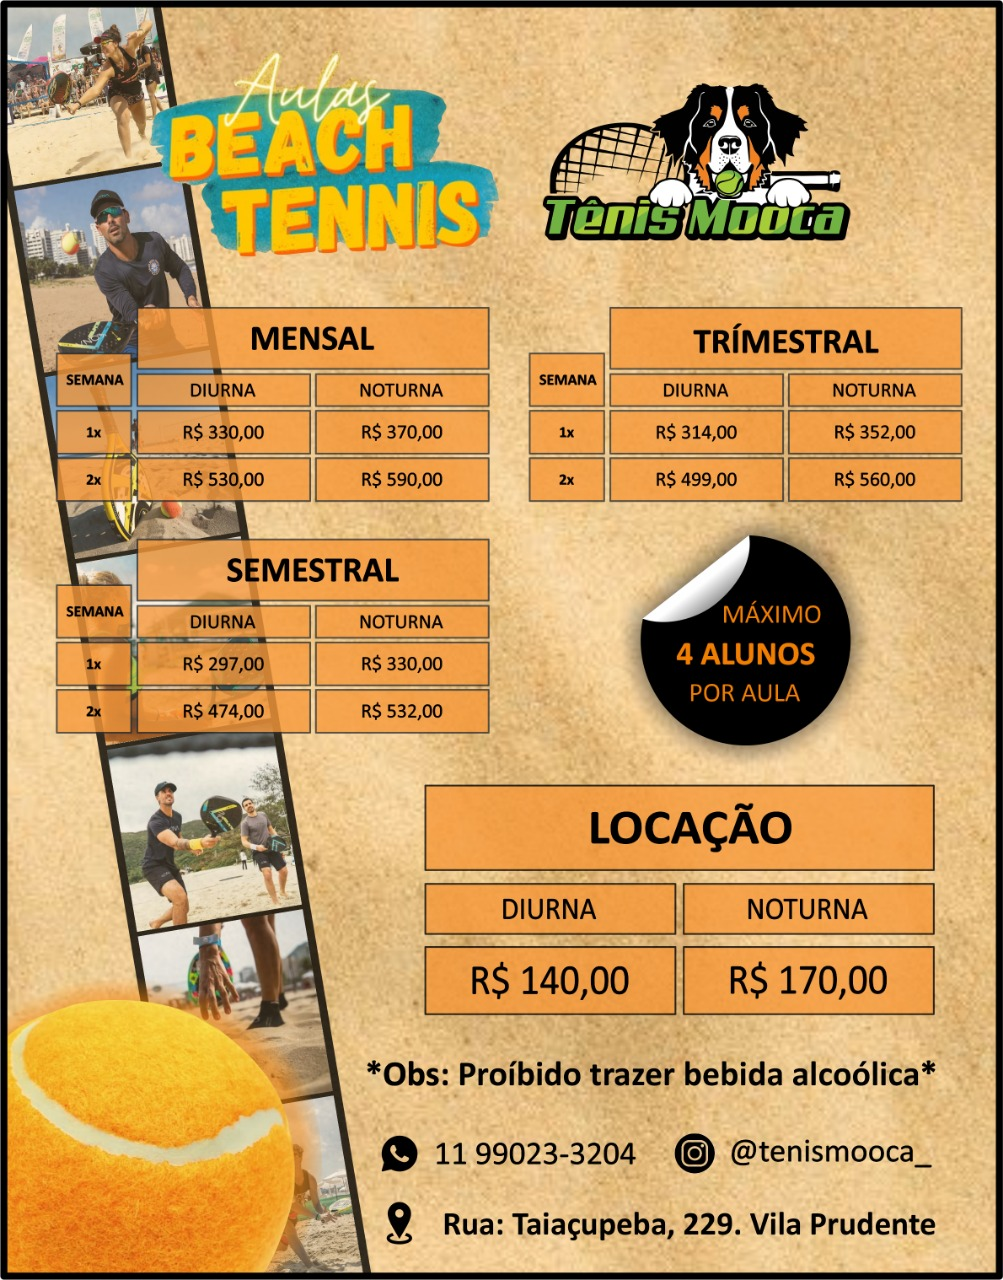
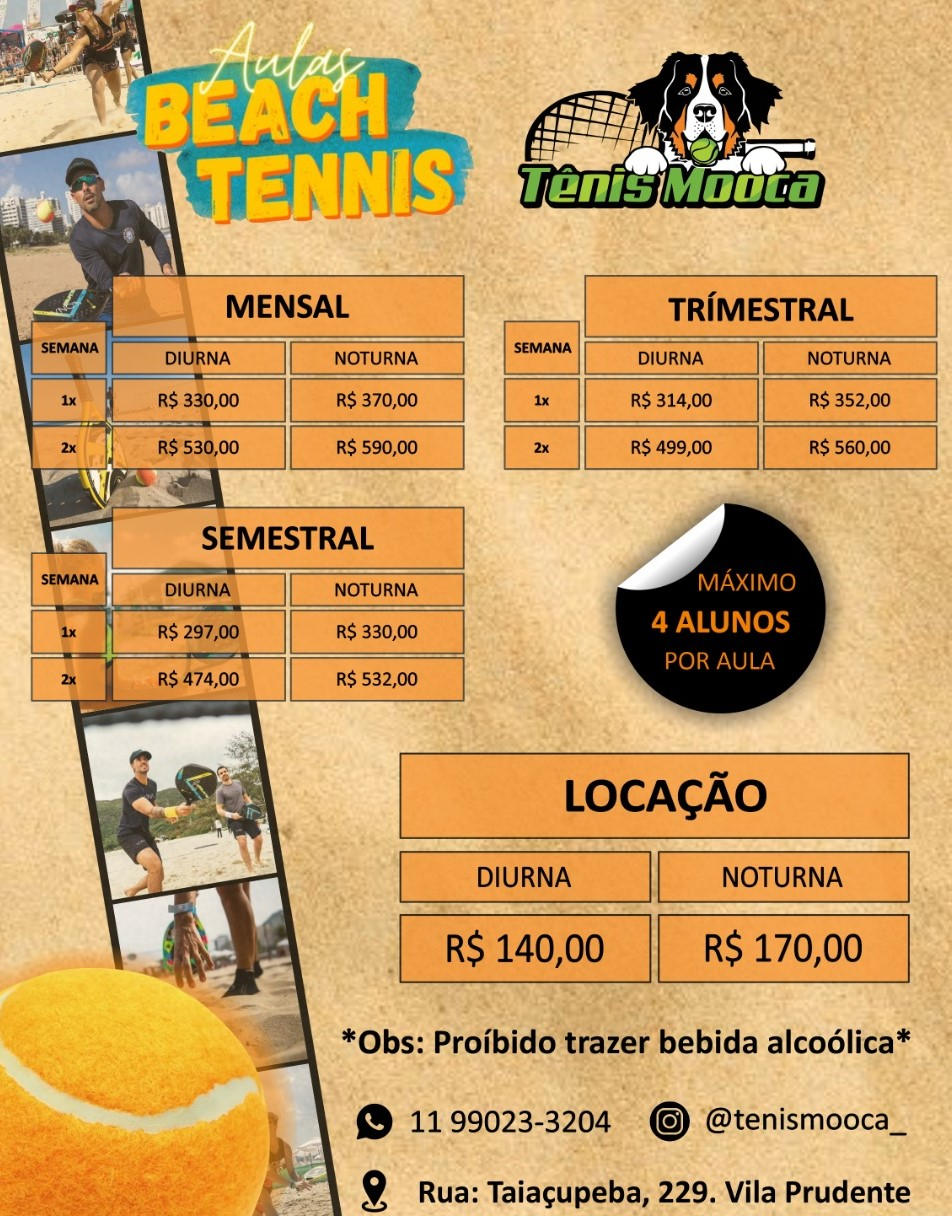
final

diff --git a/index.html b/index.html
@@ -35,22 +35,22 @@
             <ul class="menu-desktop mr-3">
 
                 <li class="menu-item" id="menu-item-1">
-                    <a href="" style="font-weight: 500;">HOME</a>
+                    <a href="" style="font-weight: 600;">HOME</a>
                     <ul class="" >
                         
                         
                     </ul>
                 </li>
                 <li class="menu-item" id="menu-item-2">
-                    <a href="" class="nav-link-desktop" style="font-weight: 500; ">TÊNIS MOOCA</a>
+                    <a href="" class="nav-link-desktop" style="font-weight: 600; ">TÊNIS MOOCA</a>
                     <ul class="dropdown-menu" id="dropdown-item-2">
-                        <li class="dropdown-item"><a href="https://ul.waze.com/ul?place=ChIJGZEDmQ5czpQRVH6E5QVK0fI&ll=-23.58378710%2C-46.58715410&navigate=yes&utm_campaign=default&utm_source=waze_website&utm_medium=lm_share_location" onclick="window.open(this.href,'_self')" class="nav-link-dropdown">ENDEREÇO</a></li>
+                        <li class="dropdown-item"><a href="#endereco" onclick="window.open(this.href,'_self')" class="nav-link-dropdown">ENDEREÇO</a></li>
                         <li class="dropdown-item"><a href="#sobre" class="nav-link-dropdown" onclick="window.open(this.href,'_self')">SOBRE</a></li>
                     </ul>
 
                 </li>
                 <li class="menu-item" id="menu-item-3">
-                    <a href="" class="nav-link-desktop" style="font-weight: 500;" >PREÇOS</a>
+                    <a href="" class="nav-link-desktop" style="font-weight: 600;" >PREÇOS</a>
                     <ul class="dropdown-menu" id="dropdown-item-3">
                         <li class="dropdown-item"><a href="#precos"  onclick="window.open(this.href,'_self')" class="nav-link-dropdown" >AULAS</a></li>
                         <li class="dropdown-item"><a href="https://api.whatsapp.com/send?phone=5511990233204&text=Ol%C3%A1%2C%20queria%20saber%20mais%20sobre%20a%20loca%C3%A7%C3%A3o%20%3F" onclick="window.open(this.href,'_self')" class="nav-link-dropdown">LOCAÇÃO</a></li>
@@ -111,7 +111,7 @@
        
     </div>
     <div class="flex-item-3 ml-5">
-        <iframe class="video" data-aos="zoom-out-left" data-aos-delay="600" width="560" height="315" src="https://www.youtube.com/embed/ws_MBDUHLxQ" title="YouTube video player" frameborder="0" allow="accelerometer; autoplay; clipboard-write; encrypted-media; gyroscope; picture-in-picture" allowfullscreen></iframe>
+        <iframe class="video" data-aos="zoom-out-left" data-aos-delay="600" width="560" height="315" src="https://www.youtube.com/embed/KVPMelynej4" title="YouTube video player" frameborder="0" allow="accelerometer; autoplay; clipboard-write; encrypted-media; gyroscope; picture-in-picture" allowfullscreen></iframe>
     </div>
    </section>
    <div class="quadras" data-aos="fade-up" data-aos-delay="400">
@@ -141,17 +141,38 @@
    </div>
     
     <div class="container">
-        <img data-aos="flip-left" class="imgprecos " src="img/flyerprecos.jpeg" alt="">
-        <img data-aos="flip-right" class="imgprecos " src="img/precosbeach.jpeg" alt="">
+        <img data-aos="flip-left" class="imgprecos ml-2 mt-2 " src="img/flyerprecos.jpeg" alt="">
+        <img data-aos="flip-right" class="imgprecos ml-2 mt-2 " src="img/precosbeach.jpeg" alt="">
         
     </div>
     <div class="flex-center">
-        <button class="btn" data-aos="zoom-in-down"><a href="https://api.whatsapp.com/send?phone=5511990233204&text=Ol%C3%A1%2C%20queria%20saber%20mais%20sobre%20a%20loca%C3%A7%C3%A3o%20%3F" style="color:white ;" >Agende já seu horario!!!</a></button>
+        <button class="btn" data-aos="zoom-in-down"><a href="https://api.whatsapp.com/send?phone=5511990233204&text=Ol%C3%A1%2C%20queria%20saber%20mais%20sobre%20a%20loca%C3%A7%C3%A3o%20%3F" style="color:white ;" >Agende já seu horário!!!</a></button>
     </div>
+
+    <!--======== ENDERECO =========-->
+    <h2 class="flex-center mt-5" id="endereco">Endereço</h2>
+    <div class="container">
+        
+        <div class="flex-wrap"> 
+           <h4 class="mr-4 mb-2"><i class="fa-sharp fa-solid fa-location-dot mr-1"></i>Rua Taiaçupeba, 229</h4>
+           <h4 class="mr-4 mb-2"><i class="fa-solid fa-phone mr-1"></i>(11) 99023-3204 </h4>
+           <h4 class="mr-4 mb-2"><i class="fa-solid fa-envelope mr-1"></i>contato@tennismooca.com.br</h4>
+           
+        </div>
+        <div class="flex-wrap">
+            
+            <iframe class="mb-2" src="https://www.google.com/maps/embed?pb=!1m18!1m12!1m3!1d3656.572651728716!2d-46.589342785021756!3d-23.58378708467181!2m3!1f0!2f0!3f0!3m2!1i1024!2i768!4f13.1!3m3!1m2!1s0x94ce5c0e99039119%3A0xf2d14a05e5847e54!2sRua%20Taia%C3%A7upeba%2C%20229%20-%20Vila%20Prudente%2C%20S%C3%A3o%20Paulo%20-%20SP%2C%2003150-030!5e0!3m2!1spt-BR!2sbr!4v1663767929327!5m2!1spt-BR!2sbr" width="400" height="250" style="border:0;" allowfullscreen="" loading="lazy" referrerpolicy="no-referrer-when-downgrade"></iframe>
+        </div>
         
 
 
-   <div class="container insta mt-3 flex-center flex-column" data-aos="zoom-out-right" data-aos-delay="800">
+    </div>
+
+
+        
+
+
+   <div class="container insta mt-1 flex-column" data-aos="zoom-out-right" data-aos-delay="300">
     <a href=""><img class="" src="./svg/logo.svg" alt=""></a>
     <h3 class="mt-3 ml-3">tenismooca_</h3>
     <p class="mt-3">informacoes (11) 99023-3204 🎾 Aulas de Tênis e beach Tênis 🎾 Kids 🎾 Treinamento 🎾 Locações </p>
@@ -159,30 +180,50 @@
          <button class="btn ml-3 mb-3"><a style="color: white;" href="https://www.instagram.com/tenismooca_/"><i class="fa-brands fa-instagram mr-1"></i> Siga no instagram</a></button>
     </div>
    
+
     
     
    </div>
 
-   <footer class="flex-center">
-    <section class="container flex-center ">
+   <footer class="">
+    <section class="container flex-column ">
         <div class="flex-center"><a href="https://ul.waze.com/ul?place=ChIJGZEDmQ5czpQRVH6E5QVK0fI&ll=-23.58378710%2C-46.58715410&navigate=yes&utm_campaign=default&utm_source=waze_website&utm_medium=lm_share_location">\
-            <p><i class="fa-solid fa-location-dot "></i> Vl.Prudente - São Paulo Rua Taiçupeba 229 </p></a>
+            <p><i class="fa-solid fa-location-dot ml-2 "></i> Vl.Prudente - São Paulo Rua Taiçupeba 229 </p></a>
             
             
         </div>
 
         <div class="flex-center">
-            <a href=""><img class="footerimg flex-center " src="./svg/logo.svg" alt=""></a>
+            <a href=""><img class="footerimg" src="./svg/logo.svg" alt=""></a>
         </div>
 
-        <div class="flex-center">
+        <div class="">
             <p>
-                <i class="fa-solid fa-phone "></i> Telefone (11) 99023-3204 </h4>
+                <i class="fa-solid fa-phone ml-2"></i> Telefone (11) 99023-3204 </h4>
             <a href=""><img src="" alt=""></a>
+    
         </div>
+
+        <div class="container">
+            <img class="pat ml-3 mr-2 mt-2" src="img/tidy.png" alt="">
+            <img class="pat ml-3  mr-2  mt-2" src="img/logo_laranja.png" alt="">
+            <img class="pat ml-3  mr-2 mt-2" src="img/globo.png" alt="">
+
+            
+            
+        </div>
+        <div> <p class="ml-2">© Copyright 2022 Tenismooca</p></div>
+
+        
+           
+        
         
     </section>
+    
+    
    </footer>
+
+   
 
 
     <!--======== JS ===========-->

diff --git a/css/style.css b/css/style.css
@@ -114,7 +114,7 @@
   display: flex;
   align-items: center;
   justify-content: center;
-  filter: brightness(50%);
+  filter: brightness(70%);
 }
 
 .textimg {
@@ -295,12 +295,20 @@
 .imgprecos {
   width: 600px;
   height: 800px;
+  border-radius: 7px;
 }
 @media screen and (max-width: 960px) {
   .imgprecos {
     width: 400px;
     height: 600px;
   }
+}
+
+.pat {
+  width: 100px;
+  align-items: center;
+  justify-content: center;
+  position: relative;
 }
 
 h1 {
@@ -1060,7 +1068,7 @@ footer {
 
 .footerimg {
   width: 60%;
-  margin-left: 40px;
+  margin-left: 90px;
   height: 60%;
   display: flex;
   align-items: center;

diff --git a/css/partials/_layout.scss b/css/partials/_layout.scss
@@ -147,7 +147,7 @@ $container-s: 540px;
   align-items: center;
   justify-content: center;
  
-  filter: brightness(50%);
+  filter: brightness(70%);
 
 
 }
@@ -309,11 +309,18 @@ $container-s: 540px;
 .imgprecos {
   width: 600px;
   height: 800px;
+  border-radius: 7px;
   @include responsive(s){
     width: 400px;
     height: 600px;
 }
 }
 
+.pat{
+  width: 100px;
+  align-items: center;
+  justify-content: center;
+  position: relative;
+}
 
 

diff --git a/css/partials/_footer.scss b/css/partials/_footer.scss
@@ -7,7 +7,7 @@ footer{
 
 .footerimg{
   width: 60%;
-  margin-left: 40px;
+  margin-left: 90px;
   height: 60%;
   display: flex;
   align-items: center;
